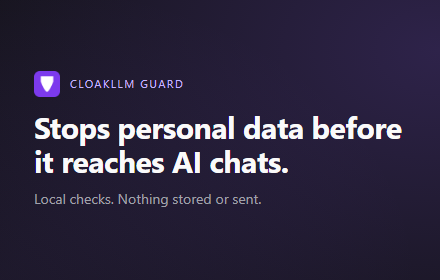
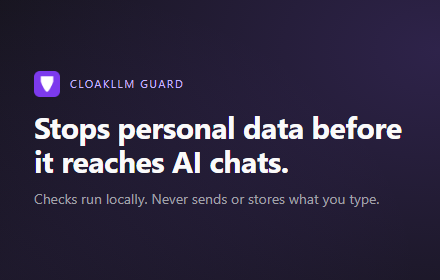
fix: the store copy described the product inaccurately in five places
Every public sentence checked against the code before submission.

- The summary shown under the title comes from manifest.json and cannot
  be edited in the dashboard. It said the extension warns 'before you
  paste'. It warns before you SEND -- pasting only scans silently. It is
  now the listing's short description verbatim, and a test makes them
  the same string, since two copies of a public sentence drift.
- 'nothing is sent, stored...' was ambiguous: your message IS sent when
  you choose Send anyway, and the extension stores warning counts. Now
  'the extension never sends or stores what you type' -- in the
  summary, a screenshot caption, and the promo tile.
- 'national ID numbers' -> 'US Social Security numbers'. That is the
  only ID format detected.
- The quoted dialog now matches what the dialog actually says.
- 'a toolkit USED to keep personal data out of AI audit logs' implied
  adoption we do not have. Now 'built to'.
- Removed 'If a tool tells you it covers everything, it is not reading
  your IDE either' -- false about endpoint DLP agents, which do.
- Added a limit a reader would otherwise assume away: it does not
  recognise names, postal addresses or dates of birth.

Category: Privacy & Security if offered. 135 tests.

Changed region(s): [[0.0591, 0.6857, 0.8568, 0.7429]]

diff --git a/test/package.test.js b/test/package.test.js
@@ -125,6 +125,20 @@ test('the short description fits the store limit', () => {
   assert.ok(m[1].length <= 132, `short description is ${m[1].length} chars, limit is 132`);
 });
 
+test('the store summary IS the manifest description, word for word', () => {
+  // The dashboard shows manifest.json's `description` under the title and
+  // does not let you edit it there. The listing doc had one short
+  // description and the manifest another -- and the manifest's said the
+  // extension warns "before you paste", when it warns before you SEND.
+  // Two copies of a public sentence drift; this makes them one.
+  const listing = read('STORE_LISTING.md');
+  const m = listing.match(/## Short description[^\r\n]*(?:\r?\n)+```\r?\n([\s\S]*?)\r?\n```/);
+  assert.ok(m, 'short description block not found');
+  assert.equal(manifest.description, m[1],
+    'manifest.json description and STORE_LISTING.md short description differ');
+  assert.ok(manifest.description.length <= 132);
+});
+
 test('the extension declares no host permissions beyond its content scripts', () => {
   // Broad host_permissions are the single biggest review risk. If one ever
   // appears it should be a deliberate decision, not a drift.

diff --git a/tools/store/frame.html b/tools/store/frame.html
@@ -136,7 +136,7 @@
       root.innerHTML = copy(
         'Stops personal data before it reaches an AI chat.',
         'Press send with a card number, an IBAN, an email address or an API key in the box, and Guard asks first. You decide what happens next.',
-        ['Checked on your machine', 'Nothing you write is stored or sent anywhere', '&ldquo;Send anyway&rdquo; is always one click away'],
+        ['Checked on your machine', 'The extension never stores or sends what you write', '&ldquo;Send anyway&rdquo; is always one click away'],
       );
       framed({ src: 'chat.html', left: 500, top: 100, width: 720, height: 600 });
     }
@@ -209,7 +209,7 @@
       document.body.classList.add('tile');
       root.innerHTML = `<div class="t-inner">${BRAND}
         <h1>Stops personal data before it reaches AI chats.</h1>
-        <p class="sub">Local checks. Nothing stored or sent.</p></div>`;
+        <p class="sub">Checks run locally. Never sends or stores what you type.</p></div>`;
     }
 
     window.__READY = true;

diff --git a/STORE_LISTING.md b/STORE_LISTING.md
@@ -14,14 +14,16 @@ CloakLLM Guard
 ## Short description (132 characters max)
 
 ```
-Catches personal data before you send it to an AI chat. Checks locally - nothing is sent, stored, or reported anywhere.
+Catches personal data before you send it to an AI chat. The check runs locally; the extension never sends or stores what you type.
 ```
 
-*(118 characters.)*
+*(130 characters.)* **This is also `manifest.json`'s `description`, which the store shows under the title and which cannot be edited in the dashboard -- the two must match (test-enforced).** The earlier manifest text said the extension warns "before you paste"; it warns before you SEND.
 
 ## Category
 
-Productivity — Workflow & Planning
+**Privacy & Security** if the dashboard offers it (it describes the extension better); otherwise Productivity — Workflow & Planning.
+
+**Language:** English.
 
 ## Detailed description
 
@@ -30,9 +32,10 @@ CloakLLM Guard checks what you are about to send to ChatGPT, Claude, Gemini or
 Microsoft Copilot, and stops you if it contains personal data.
 
 Paste a customer record into a chat box and press send, and instead of the
-message going out you get a question: "this looks like it contains a credit
-card number and an email address - send anyway?" You can always say yes. It is
-a seatbelt, not a lock.
+message going out, Guard stops and asks: "Hold on - this looks like personal
+data. What you are about to send appears to contain a credit card number and
+an email address." You choose "Let me edit it" or "Send anyway", and you can
+always send. It is a seatbelt, not a lock.
 
 THREE THINGS IT NEVER DOES
 
@@ -43,12 +46,12 @@ THREE THINGS IT NEVER DOES
 - Report to anyone. It warns you. Your employer does not get a copy.
 
 Detection runs entirely in your browser, using the detection engine from
-CloakLLM, an open-source compliance toolkit used to keep personal data out of
+CloakLLM, an open-source compliance toolkit built to keep personal data out of
 AI audit logs.
 
 WHAT IT CATCHES
 
-Credit card numbers, IBANs, national ID numbers, API keys, AWS access keys,
+Credit card numbers, IBANs, US Social Security numbers, API keys, AWS access keys,
 access tokens, email addresses and phone numbers. Every category can be turned
 off individually - if something is noisy in your work, silence it. A warning
 you learn to ignore is worse than no warning.
@@ -58,8 +61,11 @@ WHAT IT CANNOT SEE
 Browser tabs only. It cannot see the ChatGPT or Claude desktop apps, Copilot or
 Cursor inside your editor, anything sent directly from code, or anything on
 another device. That is a real limit, and we would rather you knew it now than
-found out later. If a tool tells you it covers everything, it is not reading
-your IDE either.
+found out later.
+
+It also does not recognise names, postal addresses or dates of birth. It
+catches the structured kinds of data listed above; a person's name on its own
+will not trigger a warning.
 
 YOUR OWN RECORD
 
